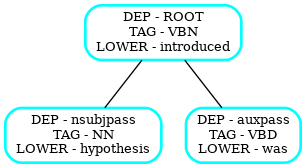
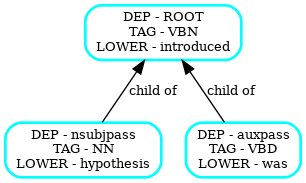
Integrate sibling edge relationships

diff --git a/visualise_spacy_pattern/visualise_spacy_pattern.py b/visualise_spacy_pattern/visualise_spacy_pattern.py
@@ -2,13 +2,21 @@ from visualise_spacy_pattern import util
 import pydot
 
 
+DEFAULT_STYLE_ATTRS = {
+    'fontname': 'palatino',
+    'fontsize': 10,
+}
+
 DEFAULT_NODE_ATTRS = {
     'color': 'cyan',
     'shape': 'box',
     'style': 'rounded',
-    'fontname': 'palatino',
-    'fontsize': 10,
-    'penwidth': 2
+    'penwidth': 2,
+    **DEFAULT_STYLE_ATTRS,
+}
+
+DEFAULT_EDGE_ATTRS = {
+    **DEFAULT_STYLE_ATTRS,
 }
 
 
@@ -68,12 +76,32 @@ def to_pydot(pattern, edge_labels=['DEP']):
         if not rel:
             continue
         if rel == '>':
-            edge = pydot.Edge(nbor, node)
+            edge = pydot.Edge(
+                nbor,
+                node,
+                label='child of',
+                arrowtail='normal',
+                dir='back',
+                **DEFAULT_EDGE_ATTRS,
+            )
         elif rel == '<':
-            edge = pydot.Edge(node, nbor)
-        else:
-            print('Warning: rel type {} unhandled. Results maybe be incorrect.'.format(rel))
-            edge = pydot.Edge(node, nbor)
+            edge = pydot.Edge(
+                node,
+                nbor,
+                label='child of',
+                arrowtail='normal',
+                dir='back',
+                **DEFAULT_EDGE_ATTRS
+            )
+        elif rel == '$--':
+            edge = pydot.Edge(
+                node,
+                nbor,
+                label='prev sibling of',
+                arrowtail='normal',
+                dir='back',
+                **DEFAULT_EDGE_ATTRS
+            )
         graph.add_edge(edge)
 
     return graph

diff --git a/setup.py b/setup.py
@@ -8,7 +8,7 @@ with open("requirements.txt") as fh:
 
 setuptools.setup(
     name="visualise-spacy-pattern",
-    version="0.0.1",
+    version="0.0.2",
     author="Nicholas Morley",
     author_email="nick.morley111@gmail.com",
     description=" Visualise spacy dependency patterns",

diff --git a/test/test_visualise_pattern.py b/test/test_visualise_pattern.py
@@ -5,9 +5,10 @@ from visualise_spacy_pattern import to_pydot
 
 
 pattern_files = [
-    # 'examples/pattern_0.json',
-    # 'examples/pattern_1.json',
+    'examples/pattern_0.json',
+    'examples/pattern_1.json',
     'examples/pattern_2.json',
+    'examples/pattern_3.json',
 ]
 
 
